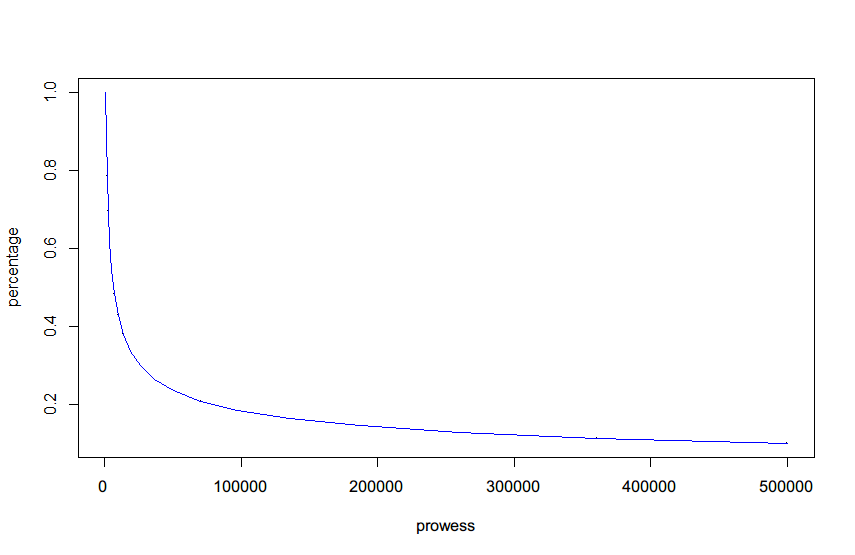
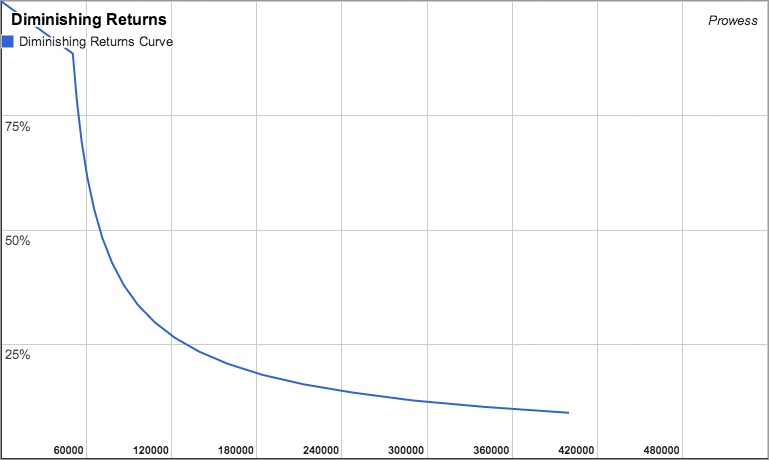
update diminishing returns to new data

diff --git a/page-misc.php b/page-misc.php
@@ -13,380 +13,261 @@ wp_enqueue_script('dfuw_table_sort', get_template_directory_uri().'/js/jquery.ta
   <p  class='tip'><i class="icon-info-sign"></i> Table columns are sortable</p>
   <div class='misc-info left'>
     <h3>Weapon Reaches, Arcs, Crits</h3>
-
     <table cellspacing="0" cellpadding="2" border="1">
       <thead>
         <tr>
           <th>Type <i class="icon-chevron-up icon-white"></i></th>
-
           <th>Reach <i class="icon-chevron-up icon-white"></i></th>
-
           <th>Arc <i class="icon-chevron-up icon-white"></i></th>
-
           <th>Crit % <i class="icon-chevron-up icon-white"></i></th>
         </tr>
       </thead>
-
       <tbody>
         <tr>
           <td>Axe</td>
-
           <td>1.95</td>
-
           <td>65&deg;</td>
-
           <td>7%</td>
         </tr>
-
         <tr>
           <td>Club</td>
-
           <td>1.95</td>
-
           <td>60&deg;</td>
-
           <td>3%</td>
         </tr>
-
         <tr>
           <td>Knives</td>
-
           <td>1.65</td>
-
           <td>70&deg;</td>
-
           <td>10%</td>
         </tr>
-
         <tr>
           <td>Greataxe</td>
-
           <td>2.45</td>
-
           <td>55&deg;</td>
-
           <td>20%</td>
         </tr>
-
         <tr>
           <td>Greatclub</td>
-
           <td>2.45</td>
-
           <td>50&deg;</td>
-
           <td>12%</td>
         </tr>
-
         <tr>
           <td>Greatsword</td>
-
           <td>2.5</td>
-
           <td>55&deg;</td>
-
           <td>16%</td>
         </tr>
-
         <tr>
           <td>Polearm</td>
-
           <td>2.7</td>
-
           <td>80&deg;</td>
-
           <td>4%</td>
         </tr>
-
         <tr>
           <td>Sword</td>
-
           <td>2.0</td>
-
           <td>65&deg;</td>
-
           <td>5%</td>
         </tr>
-
         <tr>
           <td>Bow</td>
-
           <td>N/A</td>
-
           <td>N/A</td>
-
           <td>15%</td>
         </tr>
-
         <tr>
           <td>Staff</td>
-
           <td>N/A</td>
-
           <td>N/A</td>
-
           <td>10%</td>
         </tr>
       </tbody>
     </table>
   </div>
-
   <div class="misc-info right">
     <h3>Role Exclusions</h3>
-
     <h4>Warrior</h4>
-
     <ul>
       <li>Battle Brand excludes Slayer and vice versa</li>
-
       <li>Baresark excludes Champion and vice versa</li>
     </ul>
-
     <h4>Skirmisher</h4>
-
     <ul>
       <li>Brawler excludes Blackguard and vice versa</li>
-
       <li>Deadeye excludes Duelist and vice versa</li>
     </ul>
-
     <h4>Elementist</h4>
-
     <ul>
       <li>Fire excludes Water and vice versa</li>
-
       <li>Air excludes Earth and vice versa</li>
     </ul>
-
     <h4>Primalist</h4>
-
     <ul>
       <li>Pain excludes Life and vice versa</li>
-
       <li>Law excludes Chaos and vice versa</li>
     </ul>
   </div>
-
   <div class="clear"></div>
-
   <div class="misc-info left">
     <h3>Player Movement Speeds</h3>
-
     <table cellpadding="0" cellspacing="0">
       <thead>
         <tr>
           <th>Type <i class="icon-chevron-up icon-white"></i></th>
-
           <th>Speed <i class="icon-chevron-up icon-white"></i></th>
         </tr>
       </thead>
-
       <tbody>
         <tr>
           <td>Climbing</td>
-
           <td>2.0</td>
         </tr>
-
         <tr>
           <td>Crouchwalk</td>
-
           <td>1.5</td>
         </tr>
-
         <tr>
           <td>Walk</td>
-
           <td>1.75</td>
         </tr>
-
         <tr>
           <td>Run</td>
-
           <td>3.5</td>
         </tr>
-
         <tr>
           <td>Run Strafe</td>
-
           <td>2.6</td>
         </tr>
-
         <tr>
           <td>Sprint</td>
-
           <td>6.0</td>
         </tr>
-
         <tr>
           <td>Swim</td>
-
           <td>2.0</td>
         </tr>
-
         <tr>
           <td>Swim Fast</td>
-
           <td>4.0</td>
         </tr>
       </tbody>
     </table>
   </div>
-
   <div class="misc-info right">
     <h3>Combat Ranks</h3>
-
     <p>Presumably these are kills during a siege. If so, it will take a mighty long time
     to achieve high ranks. Your kill count is reset to 0 if you leave a clan and rejoin
     it.</p>
-
     <table cellpadding="0" cellspacing="0">
       <thead>
         <tr>
           <th>Kills <i class="icon-chevron-up icon-white"></i></th>
-
           <th>Rank <i class="icon-chevron-up icon-white"></i></th>
         </tr>
       </thead>
-
       <tbody>
         <tr>
           <td>0</td>
-
           <td>Recruit</td>
         </tr>
-
         <tr>
           <td>10</td>
-
           <td>Private</td>
         </tr>
-
         <tr>
           <td>20</td>
-
           <td>Corporal</td>
         </tr>
-
         <tr>
           <td>50</td>
-
           <td>Sergeant</td>
         </tr>
-
         <tr>
           <td>100</td>
-
           <td>Lieutenant</td>
         </tr>
-
         <tr>
           <td>225</td>
-
           <td>Captain</td>
         </tr>
-
         <tr>
           <td>500</td>
-
           <td>Major</td>
         </tr>
-
         <tr>
           <td>1000</td>
-
           <td>Colonel</td>
         </tr>
-
         <tr>
           <td>2500</td>
-
           <td>General</td>
         </tr>
-
         <tr>
           <td>5000</td>
-
           <td>SupremeGeneral</td>
         </tr>
       </tbody>
     </table>
   </div>
-
-    <div class="misc-info left">
-      <h3>Damage Formula</h3>
-      [ (0.2 * <strong>MS</strong> + 0.05 * <strong>WS</strong> + 0.03 * <strong>WM</strong>) + <strong>WD</strong> - <strong>AR</strong> ]
-      <br><br>
-        <strong>MS</strong> = Main Stat<br>
-        <strong>WS</strong> = Weapon Skill<br>
-        <strong>WM</strong> = Weapon Mastery<br>
-        <strong>WD</strong> = Weapon Damage<br>
-        <strong>AR</strong> = Armor Resist<br><br>
+  <div class="misc-info left">
+    <h3>Damage Formula</h3>
+    [ (0.2 * <strong>MS</strong> + 0.05 * <strong>WS</strong> + 0.03 * <strong>WM</strong>) + <strong>WD</strong> - <strong>AR</strong> ]
+    <br><br>
+      <strong>MS</strong> = Main Stat<br>
+      <strong>WS</strong> = Weapon Skill<br>
+      <strong>WM</strong> = Weapon Mastery<br>
+      <strong>WD</strong> = Weapon Damage<br>
+      <strong>AR</strong> = Armor Resist<br>
+  </div>
+  <br>
+  <div class="misc-info full">
+      <h3>Diminishing Returns</h3>
+      <a href="<?php echo get_template_directory_uri();?>/images/diminishing-returns.png" target="_blank"><img src="<?php echo get_template_directory_uri();?>/images/diminishing-returns.png"/></a>
     </div>
-
+    <br>
   <div class="misc-info full">
     <h3>Crosshair Wobble</h3>
-
     <p>Default units are in radians with a degree conversion next to them. Change time
     represents how long it takes to change from one state to the other, such as running
     wobble to sprinting wobble.</p>
-
     <table cellpadding="0" cellspacing="0">
       <thead>
         <tr>
           <th>Weapon Type <i class="icon-chevron-up icon-white"></i></th>
-
           <th>Standing Wobble <i class="icon-chevron-up icon-white"></i></th>
-
           <th>Running Wobble <i class="icon-chevron-up icon-white"></i></th>
-
           <th>Sprinting Wobble <i class="icon-chevron-up icon-white"></i></th>
-
           <th>Change Time <i class="icon-chevron-up icon-white"></i></th>
         </tr>
       </thead>
-
       <tbody>
         <tr>
           <td>Bow</td>
-
           <td>0</td>
-
           <td>0.003r (0.172&deg;)</td>
-
           <td>0.006r (0.344&deg;)</td>
-
           <td>0.2s</td>
         </tr>
-
         <tr>
           <td>Magic Staff</td>
-
           <td>0</td>
-
           <td>0.002r (0.115&deg;)</td>
-
           <td>0.004r (0.229&deg;)</td>
-
           <td>0.3s</td>
         </tr>
-
         <tr>
           <td>Throwable Weapon</td>
-
           <td>0</td>
-
           <td>0.004r (0.229&deg;)</td>
-
           <td>0.008r (0.458&deg;)</td>
-
           <td>0.4s</td>
         </tr>
       </tbody>
     </table>
     <div class="clearfix"></div>
   </div>
-
   <div class="disclaimer">
     ** Content provided by Kelet
   </div>
